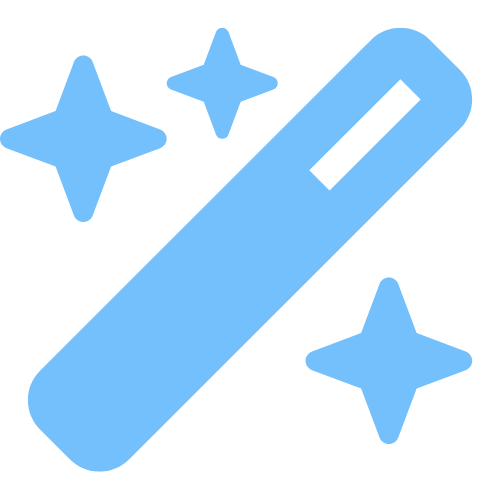
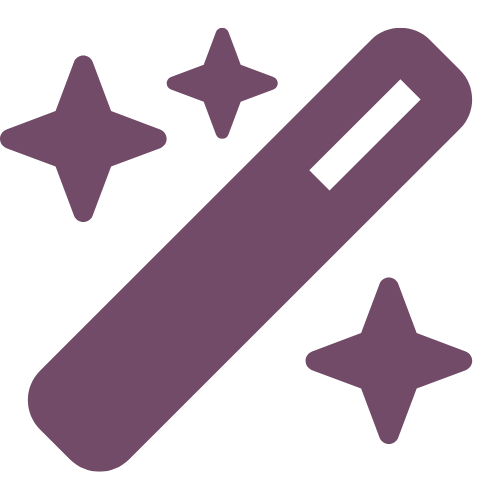
module made freemium

diff --git a/llm_reports/static/description/index.html b/llm_reports/static/description/index.html
@@ -228,85 +228,123 @@
                 </div>
 
                 <!-- Features Tab -->
-                <div class="tab-pane fade show active" id="features" role="tabpanel">
-                    <!-- Feature content using the example's card styling -->
-                    <div class="position-relative mb-4" style="border-radius:10px; background-color:#f4f4f4">
-                        <div class="p-md-5 p-3 position-relative">
-                            <div class="row">
-                                <div class="col-md-12">
-                                    <h1 style="font-weight:bold; font-size:calc(1.1rem + 1vw); line-height:120%; text-align:center; text-transform:capitalize; font-size: 40px; font-weight: 700;">
-                                        <span style="color:#121212; font-size:calc(1.1rem + 1vw)">Natural Language</span>
-                                        <span style="color: var(--primary-color); font-size:calc(1.1rem + 1vw)">Processing</span>
-                                    </h1>
-                                </div>
-                                <div class="col-md-12 mb-4">
-                                    <p style="font-weight:400; font-size:16px; line-height:150%; text-align:center; color:var(--text-color-light)">
-                                        Transform complex database queries into natural conversations across 95+ languages
-                                    </p>
-                                </div>
-                                <div class="col-md-12 text-center">
-                                    <div class="d-inline-block p-3 shadow-sm" style="background-color:#fff; border-radius:10px">
-                                        <img alt="NLP Feature Demo" class="img-fluid" src="feature_1.png" style="min-height: 1px;">
-                                    </div>
-                                </div>
-                                <!-- Feature Tags -->
-                                <div class="col-md-12 mt-4">
-                                    <div class="d-flex justify-content-center gap-2 flex-wrap">
-                                        <span style="background-color: #714B67; color: white; padding: 8px 16px; border-radius: 10px; font-size: 14px;">
-                                            Ask questions in your language
-                                        </span>
-                                        <span style="background-color: #714B67; color: white; padding: 8px 16px; border-radius: 10px; font-size: 14px;">
-                                            Context-aware queries
-                                        </span>
-                                        <span style="background-color: #714B67; color: white; padding: 8px 16px; border-radius: 10px; font-size: 14px;">
-                                            Smart field detection
-                                        </span>
-                                    </div>
-                                </div>
-                            </div>
-                        </div>
-                    </div>
-                    <div class="position-relative mb-4" style="border-radius:10px; background-color:#f4f4f4">
-                        <div class="p-md-5 p-3 position-relative">
-                            <div class="row">
-                                <div class="col-md-12">
-                                    <h1 style="font-weight:bold; font-size:calc(1.1rem + 1vw); line-height:120%; text-align:center; text-transform:capitalize; font-size: 40px; font-weight: 700;">
-                                        <span style="color: var(--primary-color); font-size:calc(1.1rem + 1vw)">Smart Filtering</span>
-                                        <span style="color:#121212; font-size:calc(1.1rem + 1vw)"> and Query Management</span>
-                                    </h1>
-                                </div>
-                                <div class="col-md-12 mb-4">
-                                    <p style="font-weight:400; font-size:16px; line-height:150%; text-align:center; color:var(--text-color-light)">
-                                        Get instant results without writing complex filters. Save and share your most frequently used queries with your team.
-                                    </p>
-                                </div>
-                                <div class="col-md-12 text-center">
-                                    <div class="d-inline-block p-3 shadow-sm" style="background-color:#fff; border-radius:10px">
-                                        <img alt="Smart Filtering Demo" class="img-fluid" src="feature_2.png" style="min-height: 1px;">
-                                    </div>
-                                </div>
-                                <!-- Feature Tags -->
-                                <div class="col-md-12 mt-4">
-                                    <div class="d-flex justify-content-center gap-2 flex-wrap">
-                                        <span style="background-color: #714B67; color: white; padding: 8px 16px; border-radius: 10px; font-size: 14px;">
-                                            Save frequent queries
-                                        </span>
-                                        <span style="background-color: #714B67; color: white; padding: 8px 16px; border-radius: 10px; font-size: 14px;">
-                                            Share filters with team
-                                        </span>
-                                        <span style="background-color: #714B67; color: white; padding: 8px 16px; border-radius: 10px; font-size: 14px;">
-                                            Quick access shortcuts
-                                        </span>
-                                        <span style="background-color: #714B67; color: white; padding: 8px 16px; border-radius: 10px; font-size: 14px;">
-                                            No technical knowledge required
-                                        </span>
-                                    </div>
-                                </div>
-                            </div>
-                        </div>
+                <!-- Features Tab -->
+<div class="tab-pane fade show active" id="features" role="tabpanel">
+    <!-- Feature content using the example's card styling -->
+    <div class="position-relative mb-4" style="border-radius:10px; background-color:#f4f4f4">
+        <div class="p-md-5 p-3 position-relative">
+            <div class="row">
+                <div class="col-md-12">
+                    <h1 style="font-weight:bold; font-size:calc(1.1rem + 1vw); line-height:120%; text-align:center; text-transform:capitalize; font-size: 40px; font-weight: 700;">
+                        <span style="color:#121212; font-size:calc(1.1rem + 1vw)">Natural Language</span>
+                        <span style="color: var(--primary-color); font-size:calc(1.1rem + 1vw)">Processing</span>
+                    </h1>
+                </div>
+                <div class="col-md-12 mb-4">
+                    <p style="font-weight:400; font-size:16px; line-height:150%; text-align:center; color:var(--text-color-light)">
+                        Transform complex database queries into natural conversations across 95+ languages
+                    </p>
+                </div>
+                <div class="col-md-12 text-center">
+                    <div class="d-inline-block p-3 shadow-sm" style="background-color:#fff; border-radius:10px">
+                        <img alt="NLP Feature Demo" class="img-fluid" src="feature_1.png" style="min-height: 1px;">
                     </div>
                 </div>
-
+                <!-- Feature Tags -->
+                <div class="col-md-12 mt-4">
+                    <div class="d-flex justify-content-center gap-2 flex-wrap">
+                        <span style="background-color: #714B67; color: white; padding: 8px 16px; border-radius: 10px; font-size: 14px;">
+                            Ask questions in your language
+                        </span>
+                        <span style="background-color: #714B67; color: white; padding: 8px 16px; border-radius: 10px; font-size: 14px;">
+                            Context-aware queries
+                        </span>
+                        <span style="background-color: #714B67; color: white; padding: 8px 16px; border-radius: 10px; font-size: 14px;">
+                            Smart field detection
+                        </span>
+                    </div>
+                </div>
+            </div>
+        </div>
+    </div>
+    <div class="position-relative mb-4" style="border-radius:10px; background-color:#f4f4f4">
+        <div class="p-md-5 p-3 position-relative">
+            <div class="row">
+                <div class="col-md-12">
+                    <h1 style="font-weight:bold; font-size:calc(1.1rem + 1vw); line-height:120%; text-align:center; text-transform:capitalize; font-size: 40px; font-weight: 700;">
+                        <span style="color: var(--primary-color); font-size:calc(1.1rem + 1vw)">Smart Filtering</span>
+                        <span style="color:#121212; font-size:calc(1.1rem + 1vw)"> and Query Management</span>
+                    </h1>
+                </div>
+                <div class="col-md-12 mb-4">
+                    <p style="font-weight:400; font-size:16px; line-height:150%; text-align:center; color:var(--text-color-light)">
+                        Get instant results without writing complex filters. Save and share your most frequently used queries with your team.
+                    </p>
+                </div>
+                <div class="col-md-12 text-center">
+                    <div class="d-inline-block p-3 shadow-sm" style="background-color:#fff; border-radius:10px">
+                        <img alt="Smart Filtering Demo" class="img-fluid" src="feature_2.png" style="min-height: 1px;">
+                    </div>
+                </div>
+                <!-- Feature Tags -->
+                <div class="col-md-12 mt-4">
+                    <div class="d-flex justify-content-center gap-2 flex-wrap">
+                        <span style="background-color: #714B67; color: white; padding: 8px 16px; border-radius: 10px; font-size: 14px;">
+                            Save frequent queries
+                        </span>
+                        <span style="background-color: #714B67; color: white; padding: 8px 16px; border-radius: 10px; font-size: 14px;">
+                            Share filters with team
+                        </span>
+                        <span style="background-color: #714B67; color: white; padding: 8px 16px; border-radius: 10px; font-size: 14px;">
+                            Quick access shortcuts
+                        </span>
+                        <span style="background-color: #714B67; color: white; padding: 8px 16px; border-radius: 10px; font-size: 14px;">
+                            No technical knowledge required
+                        </span>
+                    </div>
+                </div>
+            </div>
+        </div>
+    </div>
+    
+    <!-- OpenAI API Configuration Section -->
+    <div class="position-relative mb-4" style="border-radius:10px; background-color:#f4f4f4">
+        <div class="p-md-5 p-3 position-relative">
+            <div class="row">
+                <div class="col-md-12">
+                    <h1 style="font-weight:bold; font-size:calc(1.1rem + 1vw); line-height:120%; text-align:center; text-transform:capitalize; font-size: 40px; font-weight: 700;">
+                        <span style="color:#121212; font-size:calc(1.1rem + 1vw)">OpenAI</span>
+                        <span style="color: var(--primary-color); font-size:calc(1.1rem + 1vw)"> API Configuration</span>
+                    </h1>
+                </div>
+                <div class="col-md-12 mb-4">
+                    <p style="font-weight:400; font-size:16px; line-height:150%; text-align:center; color:var(--text-color-light)">
+                        Quick and easy setup - Configure your OpenAI API key in system parameters
+                    </p>
+                </div>
+                <div class="col-md-12 text-center">
+                    <div class="d-inline-block p-3 shadow-sm" style="background-color:#fff; border-radius:10px">
+                        <img alt="OpenAI API Configuration" class="img-fluid" src="llm_api_key_config.PNG" style="min-height: 1px;">
+                    </div>
+                </div>
+                <!-- Feature Tags -->
+                <div class="col-md-12 mt-4">
+                    <div class="d-flex justify-content-center gap-2 flex-wrap">
+                        <span style="background-color: #714B67; color: white; padding: 8px 16px; border-radius: 10px; font-size: 14px;">
+                            Easy setup
+                        </span>
+                        <span style="background-color: #714B67; color: white; padding: 8px 16px; border-radius: 10px; font-size: 14px;">
+                            Secure configuration
+                        </span>
+                        <span style="background-color: #714B67; color: white; padding: 8px 16px; border-radius: 10px; font-size: 14px;">
+                            System-wide integration
+                        </span>
+                    </div>
+                </div>
+            </div>
+        </div>
+    </div>
+</div>
                 <!-- Technical Specs Tab -->
                 <div class="tab-pane fade" id="technical" role="tabpanel">
                     <!-- Technical specifications using the example's styling -->

diff --git a/llm_reports/__manifest__.py b/llm_reports/__manifest__.py
@@ -1,6 +1,6 @@
 {
     'name': 'Natural Query',
-    'version': '18.0.1.0.4',
+    'version': '18.0.1.0.6',
     'summary': 'Multilingual AI-Powered Natural Language Reports',
     'description': """
         Transform data access across language barriers with AI-powered natural language queries.
@@ -25,7 +25,7 @@
     'website': 'https://www.bsimprovement.com/',
     'support': 'mibenayad@bsimprovement.com',
     'license': 'OPL-1',
-    'price': 159.99,
+    'price': 0,
     'currency': 'EUR',
     'category': 'Reporting',
     'depends': ['base', 'web', 'base_setup'],
